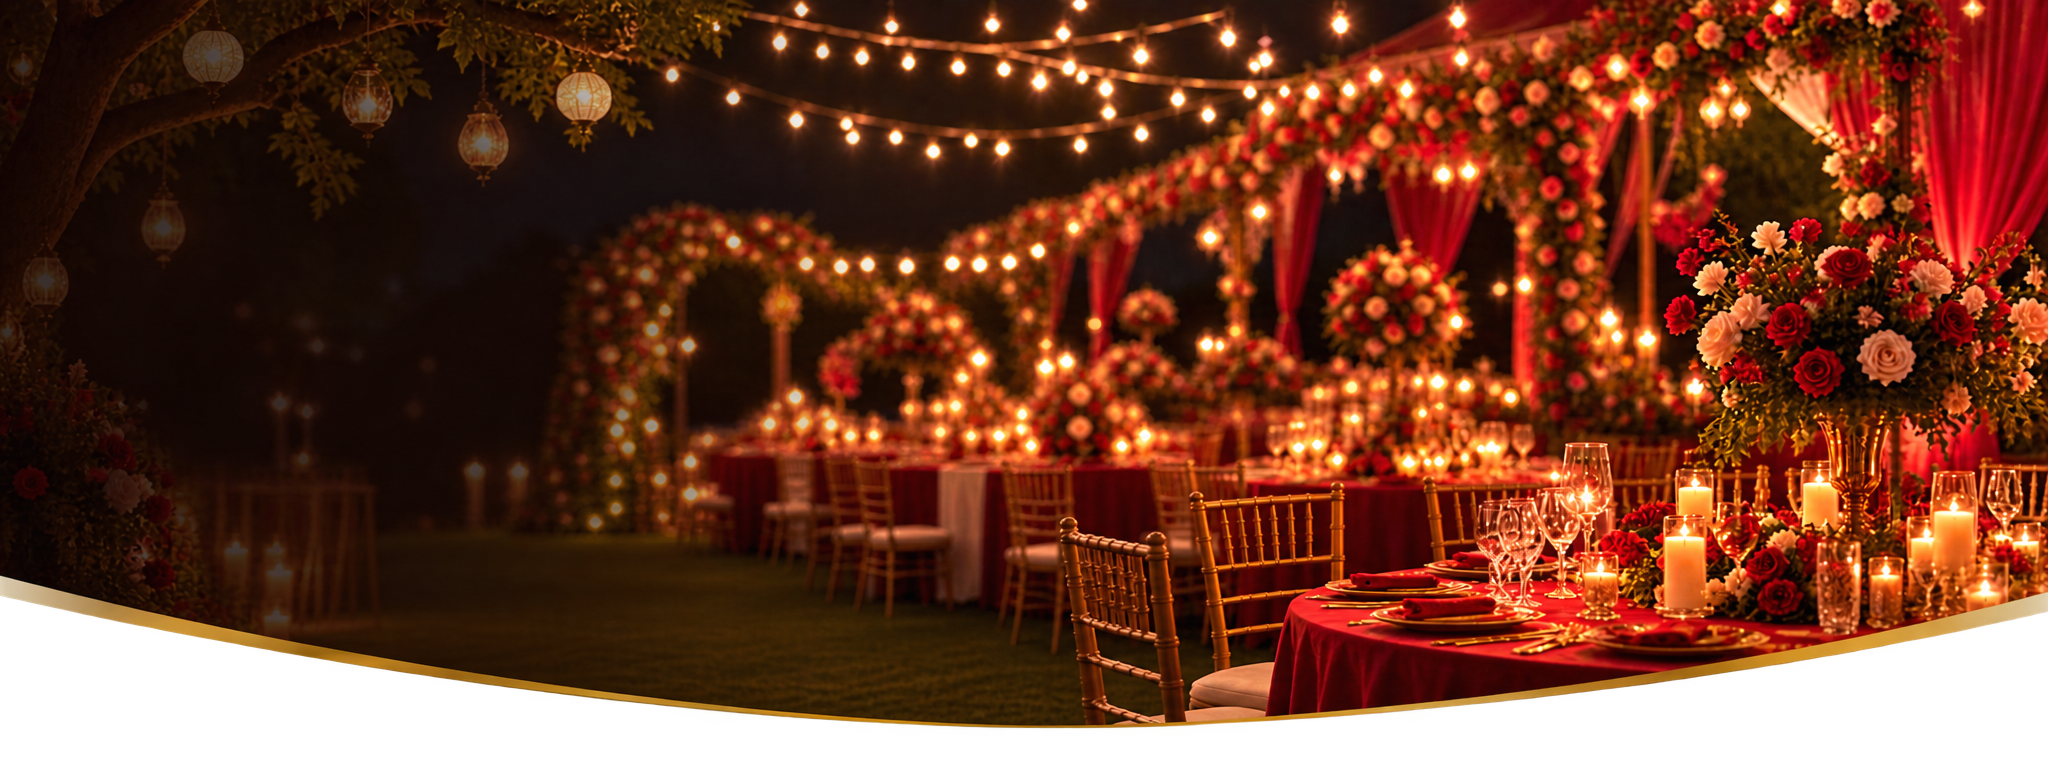
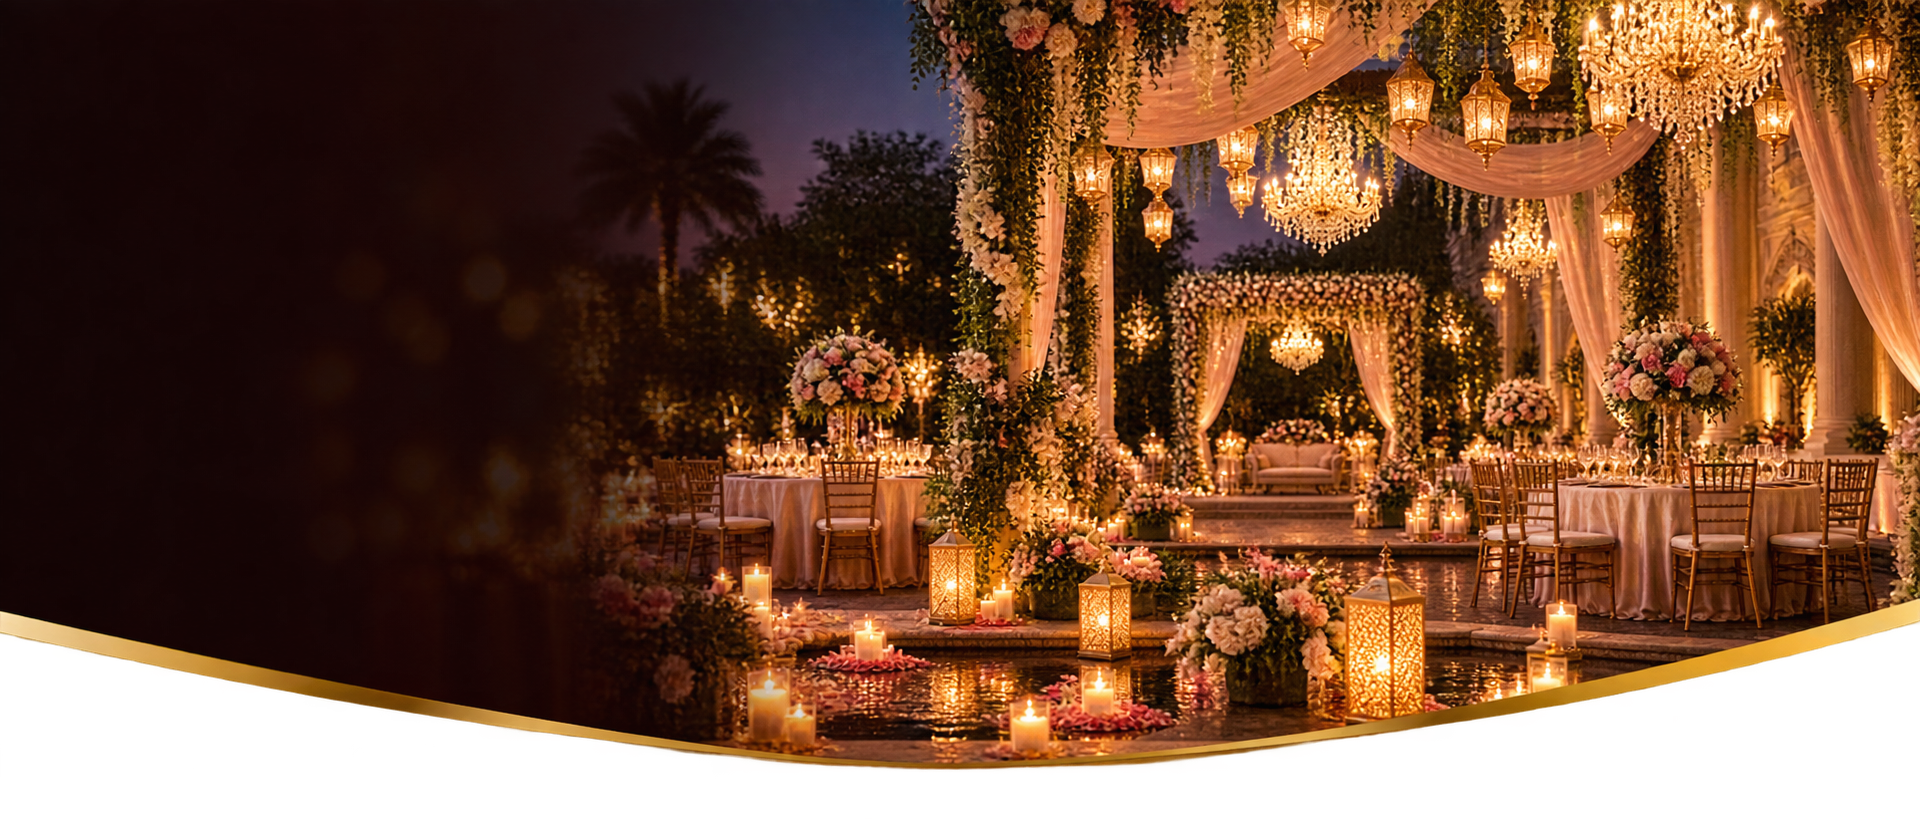
CHANGES DONE

diff --git a/client/public/css/about.css b/client/public/css/about.css
@@ -18,7 +18,7 @@
   width: 100%;
   height: 600px;
 
-  background-image: url("../images/contact_hero.png");
+  background-image: url("../images/about_hero.png");
   background-repeat: no-repeat;
   background-size: cover;
   background-position: center bottom;
@@ -49,11 +49,11 @@
       rgba(5, 2, 2, 0.15) 75%,
       transparent 100%);
 
-  -webkit-mask-image: url("../images/contact_hero.png");
+  -webkit-mask-image: url("../images/about_hero.png");
   -webkit-mask-size: cover;
   -webkit-mask-position: center bottom;
   -webkit-mask-repeat: no-repeat;
-  mask-image: url("../images/contact_hero.png");
+  mask-image: url("../images/about_hero.png");
   mask-size: cover;
   mask-position: center bottom;
   mask-repeat: no-repeat;
@@ -227,7 +227,7 @@
   .maharaj-about-hero {
     height: 370px;
 
-    background-position: center top;
+    background-position: center bottom;
   }
 
   .about-hero-content {
@@ -252,10 +252,7 @@
   .maharaj-about-hero {
     height: 350px;
 
-    /*
-      Keep the important decorative area visible.
-    */
-    background-position: 58% top;
+    background-position: center bottom;
   }
 
   .about-hero-content {
@@ -293,7 +290,7 @@
   .maharaj-about-hero {
     height: 330px;
 
-    background-position: 62% top;
+    background-position: center bottom;
   }
 
   .about-hero-content {

diff --git a/client/public/css/testimonials.css b/client/public/css/testimonials.css
@@ -18,7 +18,7 @@
   position: relative;
   width: 100%;
   height: 600px;
-  background-image: url("../images/why-us_hero.png");
+  background-image: url("../images/testimonials_hero.png");
   background-size: cover;
   background-position: center bottom;
   overflow: hidden;
@@ -41,11 +41,11 @@
     transparent 100%
   );
 
-  -webkit-mask-image: url("../images/why-us_hero.png");
+  -webkit-mask-image: url("../images/testimonials_hero.png");
   -webkit-mask-size: cover;
   -webkit-mask-position: center bottom;
   -webkit-mask-repeat: no-repeat;
-  mask-image: url("../images/why-us_hero.png");
+  mask-image: url("../images/testimonials_hero.png");
   mask-size: cover;
   mask-position: center bottom;
   mask-repeat: no-repeat;
